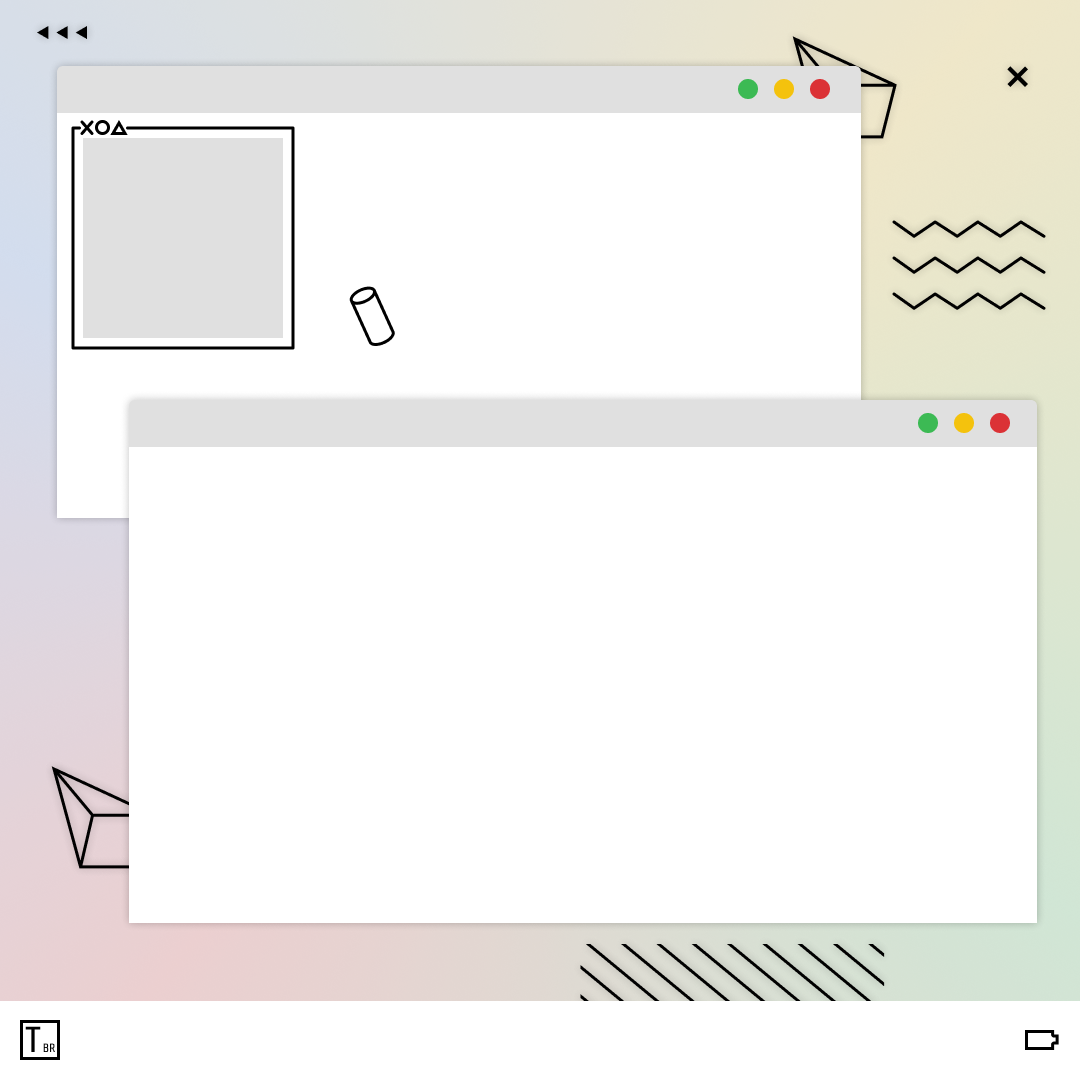
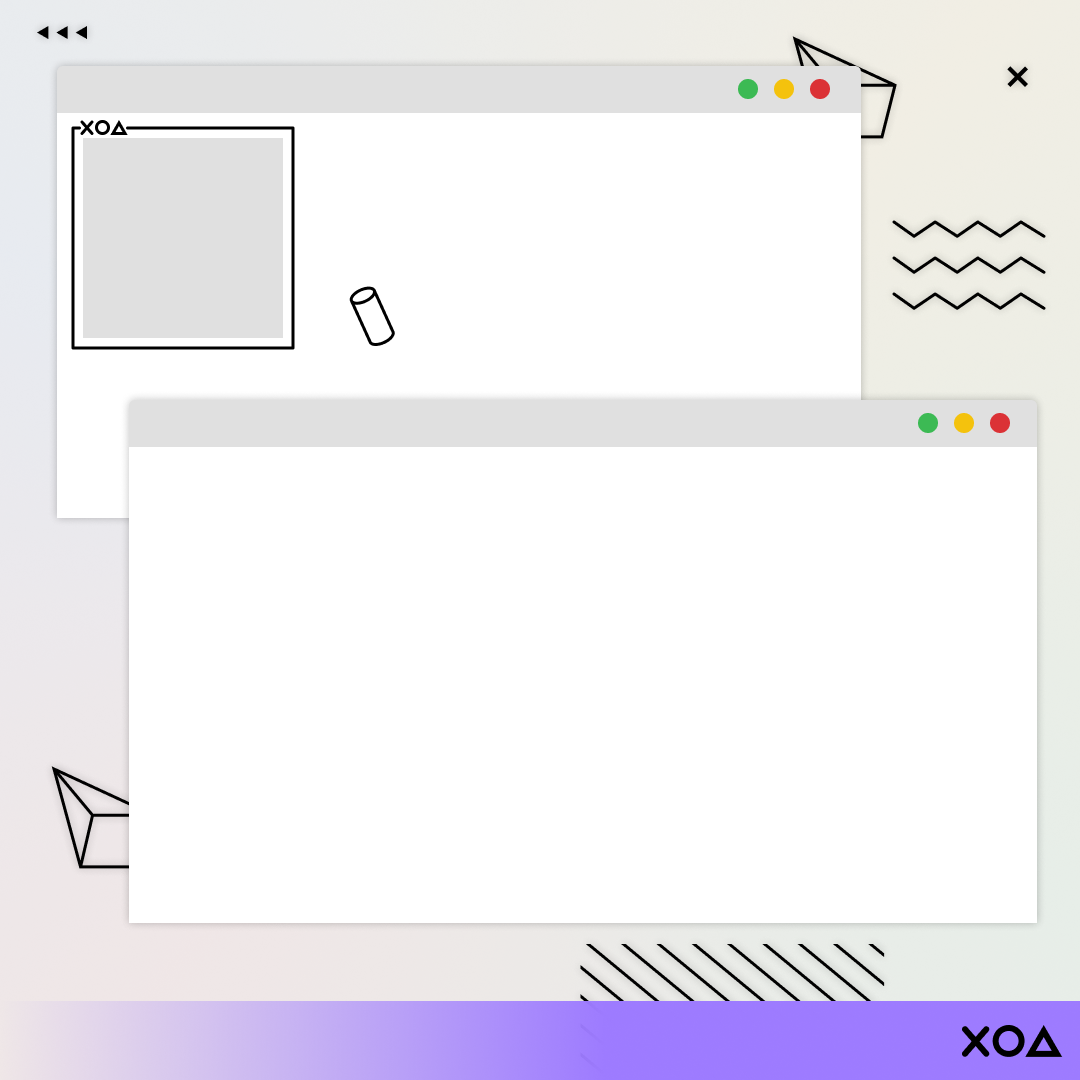
🚧trends__br🚧

Changed region(s): [[0.0, 0.9167, 1.0, 1.0], [0.7333, 0.0, 1.0, 0.3972]]

diff --git a/src/Jimp.js b/src/Jimp.js
@@ -10,7 +10,7 @@ module.exports = async function (inf, tam) {
       if (b < tam) {
         await Jimp.read(a.image || './assets/templates/none.png')
           .then(function (image) {
-              image.clone().resize(1080, 1080).blur(80)
+              image.clone().resize(1080, 1080).blur(20)
                 .composite(background, 0, 0)
                 .composite(image.resize(200, 200).blur(2), 83, 138)
                 .print(font1, 313, 128, a.source)
